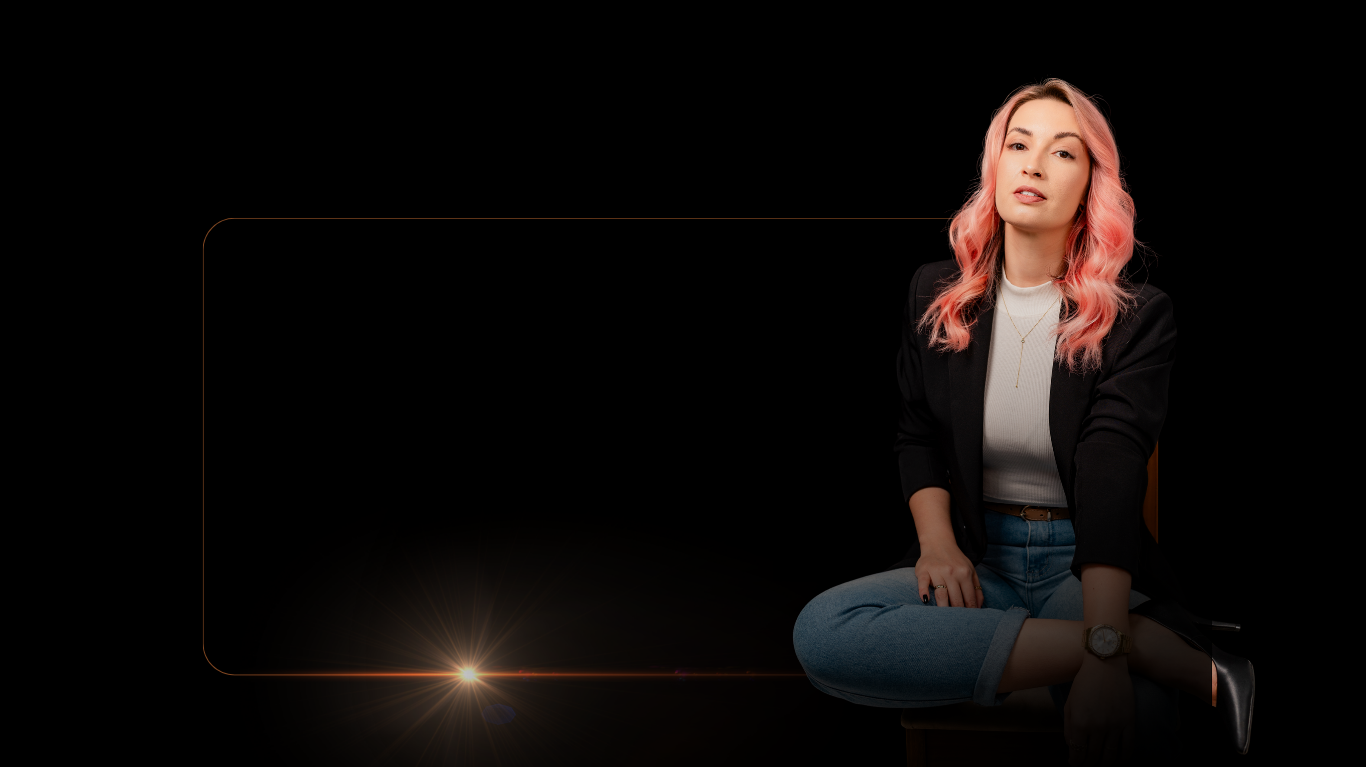
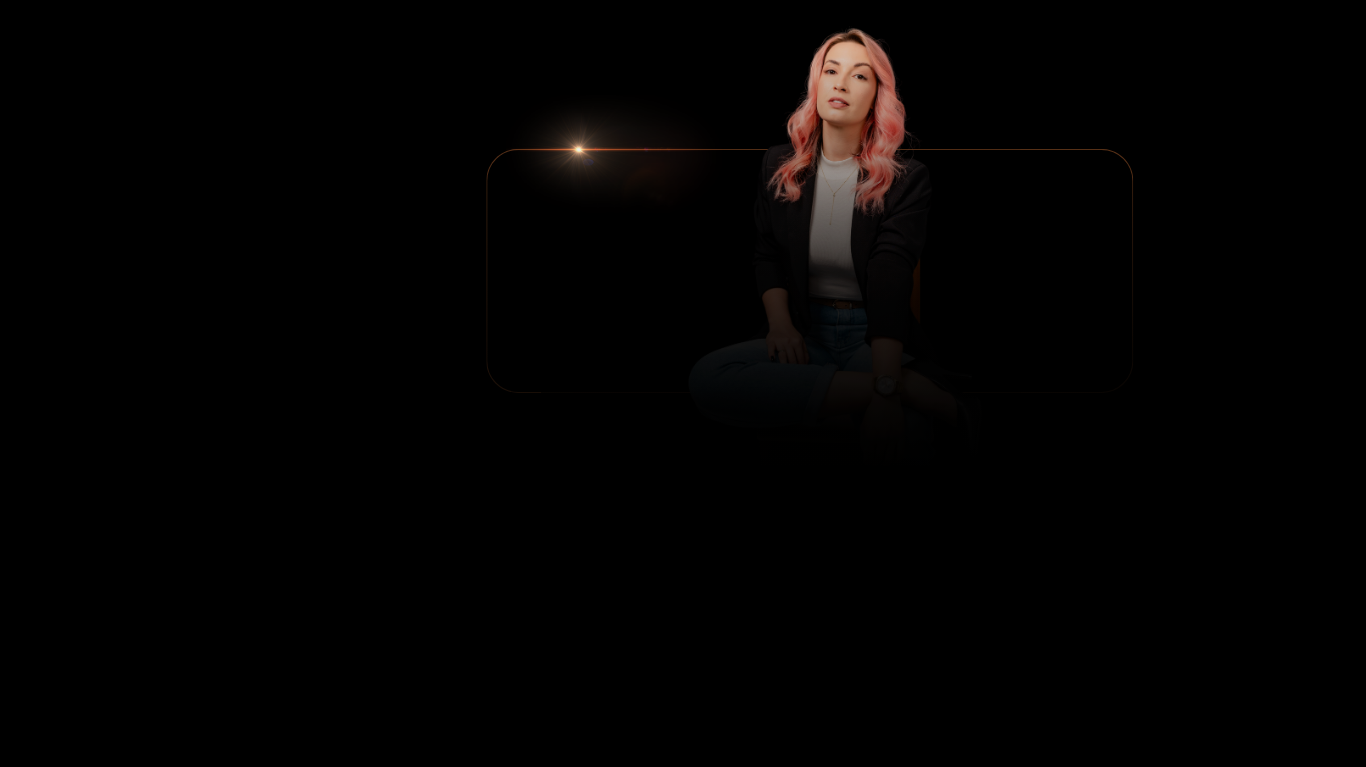
ajustes op impulse

diff --git a/landing-operacao-impulse.html b/landing-operacao-impulse.html
@@ -235,7 +235,7 @@
         </section>
 
         <section class="preco">
-            <h2 class="preco-title">Sua transformação começa com uma<br>DECISÃO!</h2>
+            <h2 class="preco-title"><span class="preco-title-line1">Sua transformação começa com uma</span><br>DECISÃO!</h2>
             <a href="#" class="tricologia-price-btn">COMPRAR AGORA</a>
         </section>
 
@@ -275,6 +275,37 @@
             </div>
         </section>
     </main>
+
+    <footer class="site-footer">
+        <div class="footer-inner">
+            <div class="footer-logo">
+                <img src="imagens-todaspaginas/logothaisgruner.png" alt="Thaís Grüner">
+            </div>
+            <div class="footer-center">
+            <div class="footer-icons">
+                <a href="https://wa.me/55" target="_blank" rel="noopener" aria-label="WhatsApp">
+                    <svg viewBox="0 0 24 24" width="20" height="20" fill="currentColor" aria-hidden="true">
+                        <path d="M17.472 14.382c-.297-.149-1.758-.867-2.03-.967-.273-.099-.471-.148-.67.15-.197.297-.767.966-.94 1.164-.173.199-.347.223-.644.075-.297-.15-1.255-.463-2.39-1.475-.883-.788-1.48-1.761-1.653-2.059-.173-.297-.018-.458.13-.606.134-.133.298-.347.446-.52.149-.174.198-.298.298-.497.099-.198.05-.371-.025-.52-.075-.149-.669-1.612-.916-2.207-.242-.579-.487-.5-.669-.51-.173-.008-.371-.01-.57-.01-.198 0-.52.074-.792.372-.272.297-1.04 1.016-1.04 2.479 0 1.462 1.065 2.875 1.213 3.074.149.198 2.096 3.2 5.077 4.487.709.306 1.262.489 1.694.625.712.226 1.36.194 1.872.118.571-.085 1.758-.719 2.006-1.413.248-.694.248-1.289.173-1.413-.074-.124-.272-.198-.57-.347z"/>
+                        <path d="M12.001 2C6.478 2 2 6.477 2 12c0 1.892.526 3.657 1.438 5.163L2 22l4.955-1.409A9.947 9.947 0 0 0 12.001 22C17.523 22 22 17.523 22 12S17.523 2 12.001 2zm0 18.06c-1.686 0-3.256-.499-4.573-1.354l-.328-.207-2.943.837.851-2.874-.213-.297A8.05 8.05 0 0 1 3.94 12c0-4.444 3.617-8.06 8.061-8.06 4.444 0 8.06 3.616 8.06 8.06 0 4.444-3.616 8.06-8.06 8.06z"/>
+                    </svg>
+                </a>
+                <a href="https://instagram.com" target="_blank" rel="noopener" aria-label="Instagram">
+                    <svg viewBox="0 0 24 24" width="20" height="20" fill="none" stroke="currentColor" stroke-width="1.5" aria-hidden="true">
+                        <rect x="2.5" y="2.5" width="19" height="19" rx="5"/>
+                        <circle cx="12" cy="12" r="4.2"/>
+                        <circle cx="17.4" cy="6.6" r="1.1" fill="currentColor" stroke="none"/>
+                    </svg>
+                </a>
+                <a href="https://youtube.com" target="_blank" rel="noopener" aria-label="YouTube">
+                    <svg viewBox="0 0 24 24" width="22" height="22" fill="currentColor" aria-hidden="true">
+                        <path d="M22.54 6.42a2.78 2.78 0 0 0-1.95-2C18.88 4 12 4 12 4s-6.88 0-8.59.42a2.78 2.78 0 0 0-1.95 2A29 29 0 0 0 1 12a29 29 0 0 0 .46 5.58 2.78 2.78 0 0 0 1.95 2C5.12 20 12 20 12 20s6.88 0 8.59-.42a2.78 2.78 0 0 0 1.95-2A29 29 0 0 0 23 12a29 29 0 0 0-.46-5.58zM9.75 15.02V8.98L15.5 12l-5.75 3.02z"/>
+                    </svg>
+                </a>
+            </div>
+            <p class="footer-copy">© 2026 Thaís Grüner — Todos os direitos reservados</p>
+            </div>
+        </div>
+    </footer>
 
 </body>
 </html>

diff --git a/style.css b/style.css
@@ -1306,7 +1306,7 @@ html, body {
     max-width: 1400px;
     margin: 0 auto;
     padding: 0;
-    background-image: url('operacaoimpulse-ctaepreco.png');
+    background-image: url('imagens-operacaoimpulse/ctaepreco-operacaoimpulse-desktop.png');
     background-size: cover;
     background-position: center;
 }
@@ -3554,21 +3554,46 @@ html, body {
     }
 
     .quemteguia {
-        min-height: 100vh;
+        height: 728px;
+        overflow: hidden;
+        position: relative;
     }
 
     .quemteguia-bg {
         background-image: url('imagens-operacaoimpulse/quemethais-operacaoimpulse-mobile.png');
-        background-position: right top;
+        background-size: cover;
+        background-position: center;
     }
 
     .quemteguia-inner {
-        min-height: 100vh;
+        position: absolute;
+        inset: 0;
+        margin: 0;
+        display: flex;
+        align-items: flex-start;
     }
 
     .quemteguia-content {
-        max-width: 100%;
-        padding: 40px 24px;
+        max-width: 90%;
+        margin-left: 0;
+        padding: 80px 24px 40px;
+    }
+
+    .quemteguia-text {
+        font-size: 14px;
+    }
+
+    .quemteguia-title {
+        font-size: 28px;
+    }
+
+    .preco {
+        background-image: url('imagens-operacaoimpulse/ctaepreco-operacaoimpulse-mobile.png');
+    }
+
+    .preco-title-line1 {
+        font-size: 20px;
+        display: inline-block;
     }
 
     .impulse-final-bubbles {

diff --git a/consultoria.html b/consultoria.html
@@ -281,7 +281,7 @@
                     </svg>
                 </a>
             </div>
-            <p class="footer-copy">© 2025 Thaís Grüner — Todos os direitos reservados</p>
+            <p class="footer-copy">© 2026 Thaís Grüner — Todos os direitos reservados</p>
             </div>
         </div>
     </footer>

diff --git a/index.html b/index.html
@@ -161,7 +161,7 @@
                     </svg>
                 </a>
             </div>
-            <p class="footer-copy">© 2025 Thaís Grüner — Todos os direitos reservados</p>
+            <p class="footer-copy">© 2026 Thaís Grüner — Todos os direitos reservados</p>
             </div>
         </div>
     </footer>

diff --git a/mentoria.html b/mentoria.html
@@ -289,7 +289,7 @@
                     </svg>
                 </a>
             </div>
-            <p class="footer-copy">© 2025 Thaís Grüner — Todos os direitos reservados</p>
+            <p class="footer-copy">© 2026 Thaís Grüner — Todos os direitos reservados</p>
             </div>
         </div>
     </footer>

diff --git a/perfect-lashes.html b/perfect-lashes.html
@@ -115,7 +115,7 @@
                     </svg>
                 </a>
             </div>
-            <p class="footer-copy">© 2025 Thaís Grüner — Todos os direitos reservados</p>
+            <p class="footer-copy">© 2026 Thaís Grüner — Todos os direitos reservados</p>
             </div>
         </div>
     </footer>

diff --git a/saude-ocular.html b/saude-ocular.html
@@ -220,7 +220,7 @@
                     </svg>
                 </a>
             </div>
-            <p class="footer-copy">© 2025 Thaís Grüner — Todos os direitos reservados</p>
+            <p class="footer-copy">© 2026 Thaís Grüner — Todos os direitos reservados</p>
             </div>
         </div>
     </footer>

diff --git a/tricologia.html b/tricologia.html
@@ -214,7 +214,7 @@
                     </svg>
                 </a>
             </div>
-            <p class="footer-copy">© 2025 Thaís Grüner — Todos os direitos reservados</p>
+            <p class="footer-copy">© 2026 Thaís Grüner — Todos os direitos reservados</p>
             </div>
         </div>
     </footer>
